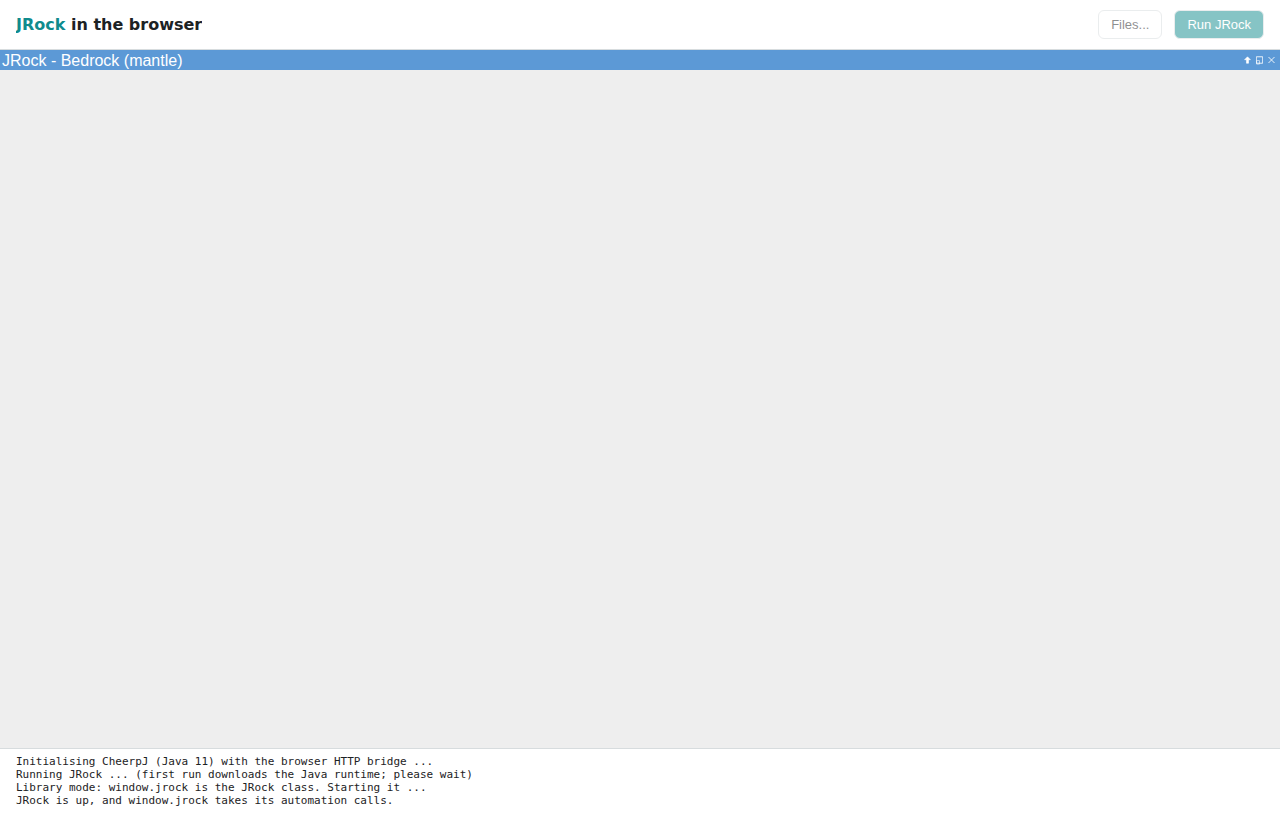
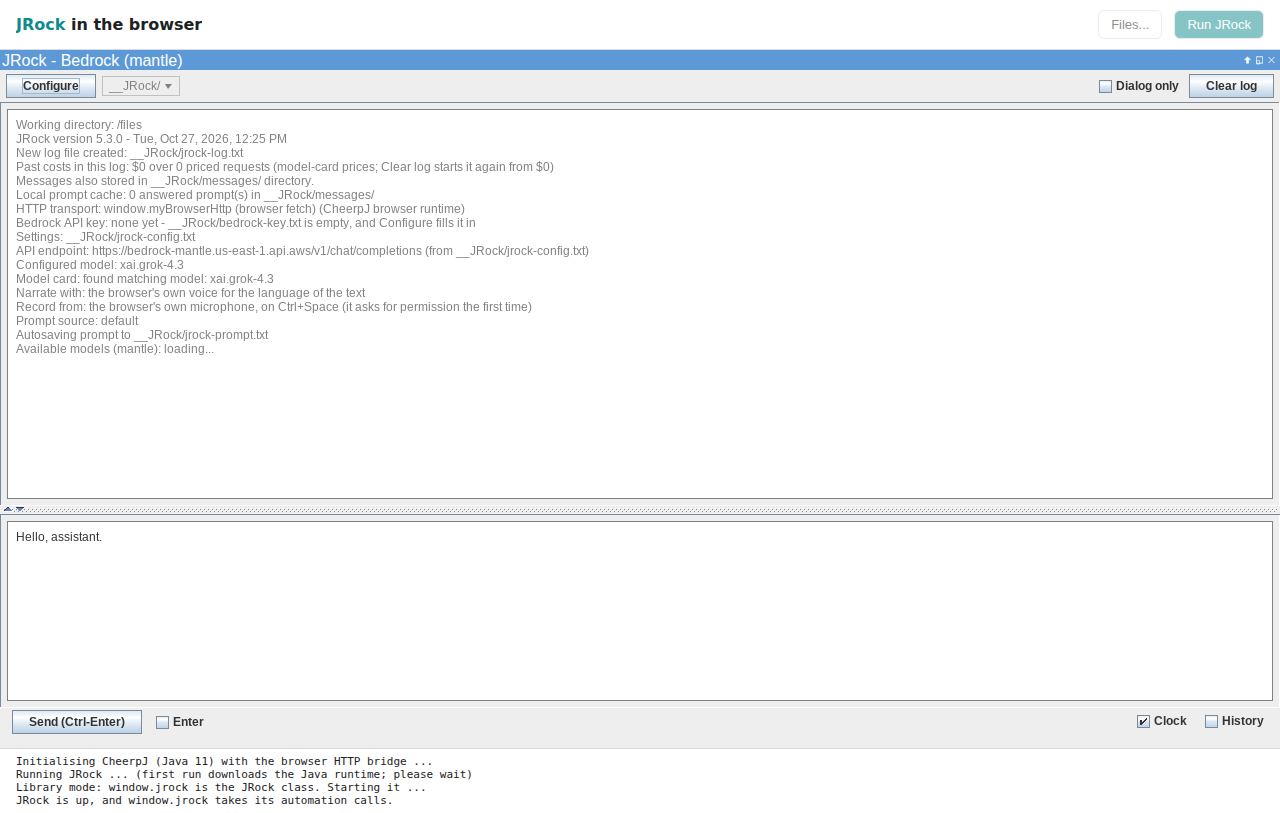
The transcript arrives a chunk at a time, so the prompt takes typing
Measured on a 48,000-line transcript, with the harness timing a task posted to
the event thread - which is exactly what a key press goes through, so the worst
delay it sees is the worst a typist feels:

  before   10,087 ms   the restore was one event, and nothing interrupted it
  after       107 ms

The window already came up first; what it could not do was anything else. The
restore read the file, read every message the transcript refers to, and styled
the lot into a text pane in a single loop - one event the window had no way to
interrupt. Ten seconds of a visible, frozen window is not much better than ten
seconds of no window.

So the parse goes to a worker, and the rendering is handed back to the queue
every sixty entries. Each call ENDS, which is the whole difference between busy
and frozen: every keystroke, caret and repaint waiting behind it is dealt with
before the next chunk starts. Sixty rather than 250 because 250 measured 336 ms
and the total restore is the same either way - three times the responsiveness
for nothing.

This pane is read-only and append-only, which is what makes it safe: nothing the
operator can do to it competes with the lines coming in.

The session report moved into a callback and a method of its own. Its lines
belong AFTER the transcript they are reporting on, and an append halfway through
a restore would land in the middle of last week's conversation.

Screenshots from this afternoon's run, four of them changed - and
[…]

diff --git a/JRock.java b/JRock.java
@@ -2832,19 +2832,80 @@ public class JRock {
         // rewrite the file (loading shouldn't trigger a save). Returns what was loaded,
         // as a timeline: the entries themselves are only replaced later, on the EDT, so
         // a caller that reads the log straight away has to read it from this.
-        java.util.List<String[]> loadFromDisk() {
+        /**
+         * Restores this folder's transcript, OFF THE EVENT THREAD and then A CHUNK AT A
+         * TIME, and calls back with its timeline when the last line is on screen.
+         *
+         * <p>Both halves of the old way blocked the window. Reading the file and parsing
+         * it blocks for as long as the disk takes - and it is not one file, every message
+         * the transcript refers to being read in as well. Rendering blocks for longer:
+         * styling tens of thousands of lines into a text pane is the slowest thing JRock
+         * does, and done in one loop it is one event the window cannot interrupt. A
+         * 48,000-line transcript froze it for sixteen seconds.
+         *
+         * <p>So the parse goes to a worker, and the rendering is handed back to the queue
+         * every few hundred entries. Between chunks the event thread does what it was
+         * always going to do - a keystroke, a caret, a repaint - so the PROMPT TAKES
+         * TYPING while the transcript is still arriving. Which is the whole point: this
+         * pane is read-only and append-only, so nothing the operator can do to it
+         * competes with the lines coming in.
+         *
+         * <p>The callback is how the session report stays in order. Its lines belong
+         * AFTER the transcript they are reporting on, and an append that happened halfway
+         * through the restore would land in the middle of last week's conversation.
+         */
+        void restoreFromDisk(java.util.function.Consumer<java.util.List<String[]>> whenDone) {
             Path from = logFile();
-            java.util.List<Entry> loaded = parseMainLog(from);
-            SwingUtilities.invokeLater(() -> {
-                // Together with the entries, on the EDT: a line queued before this
-                // runs is saved with the entries it joins, into the file they came from.
-                file = from;
-                entries.clear();
-                entries.addAll(loaded);
-                logCopySaved = true;   // just loaded from disk; no unsaved changes
-                rebuild();
-            });
-            return timeline(loaded);
+            new SwingWorker<java.util.List<Entry>, Void>() {
+                @Override protected java.util.List<Entry> doInBackground() {
+                    return parseMainLog(from);
+                }
+
+                @Override protected void done() {
+                    java.util.List<Entry> loaded;
+                    try {
+                        loaded = get();
+                    } catch (Exception unreadable) {
+                        // A transcript that cannot be read is a session that starts
+                        // without one, which is what a new folder does anyway.
+                        loaded = new ArrayList<>();
+                    }
+                    // Together with the entries, on the EDT: a line queued before this
+                    // runs is saved with the entries it joins, into the file they
+                    // came from.
+                    file = from;
+                    entries.clear();
+                    entries.addAll(loaded);
+                    logCopySaved = true;   // just loaded from disk; no unsaved changes
+                    java.util.List<String[]> timeline = timeline(loaded);
+                    renderChunk(0, () -> whenDone.accept(timeline));
+                }
+            }.execute();
+        }
+
+        /** How many entries are rendered before the event thread gets its queue back. */
+        private static final int RESTORE_CHUNK = 60;
+
+        /**
+         * Renders entries from {@code at} onwards, a chunk per turn of the event queue.
+         *
+         * <p>Re-queued rather than looped, which is the difference between a window that
+         * is busy and a window that is frozen: each call ENDS, so every keystroke and
+         * repaint waiting behind it is dealt with before the next chunk starts.
+         */
+        private void renderChunk(int at, Runnable whenDone) {
+            if (at == 0) pane.setText("");
+            int end = Math.min(entries.size(), at + RESTORE_CHUNK);
+            for (int i = at; i < end; i++) {
+                Entry e = entries.get(i);
+                if (!isVisible(e)) continue;
+                if (e.dialog) renderDialog(e); else renderGray(e.text);
+            }
+            if (end >= entries.size()) {
+                whenDone.run();
+                return;
+            }
+            SwingUtilities.invokeLater(() -> renderChunk(end, whenDone));
         }
 
         // Parses the main log. The file is the pane text as persistMainLog writes it: a
@@ -3083,14 +3144,31 @@ public class JRock {
         // automationAwaitReady).
         adoptSession();
 
-        // Recover any previous log from disk FIRST. loadFromDisk() replaces the
-        // entry list (rebuild -> setText), so it must run before we log anything
-        // for this session, otherwise those lines would be wiped.
+        // Recover any previous log from disk FIRST - it replaces the entry list, so it
+        // has to be in place before anything is logged for this session or those lines
+        // would be wiped. Restored off the event thread and rendered a chunk at a time
+        // (see restoreFromDisk), so the prompt takes typing while it arrives; the report
+        // follows in the callback, its lines belonging after the transcript they report
+        // on rather than in the middle of it.
         boolean hadLog = Files.exists(logFile());
-        java.util.List<String[]> restored = log.loadFromDisk();
         // What the log already holds in costs, read before this session adds a line.
         double[] pastCosts = loggedCosts(hadLog ? readFileQuietly(logFile()) : null);
+        log.restoreFromDisk(restored ->
+                sessionReport(log, input, promptSourceNote, hadLog, pastCosts, restored));
+    }
 
+    /**
+     * The session report: everything JRock says about the folder it has just opened, from
+     * the working directory down to "Ready."
+     *
+     * <p>Its own method because it is the CONTINUATION of the transcript's restore and
+     * not the start of a session. Split out when the restore stopped blocking the window:
+     * what used to be one method that could not be interrupted is now a short one that
+     * starts the reading and this one, which runs when the reading is done.
+     */
+    private static void sessionReport(LogView log, JTextArea input, String promptSourceNote,
+                                      boolean hadLog, double[] pastCosts,
+                                      java.util.List<String[]> restored) {
         // The settings with a control of their own on the main window, which show the
         // folder's value as soon as there is a window (at startup, it is made with them).
         Ui shown = ui;

diff --git a/.github/build/StartupProfile.java b/.github/build/StartupProfile.java
@@ -114,7 +114,26 @@ public final class StartupProfile {
         drained.await();
         long afterDrain = System.nanoTime();
 
-        // 3. and ready, reported after it and separately, being a different question.
+        // 3. HOW LONG A KEYSTROKE WOULD HAVE WAITED, which is the number that decides
+        //    whether a window is usable while it is still starting. The transcript is
+        //    being restored on the event thread right now; a task posted to that thread
+        //    and timed is exactly what a key press goes through, so the worst delay seen
+        //    here is the worst a typist would have felt. Blocked, it is the length of the
+        //    whole restore; handed back between chunks, it is a chunk.
+        long worstWait = 0;
+        long watchUntil = System.currentTimeMillis() + READY_MS;
+        // A zero timeout asks without waiting: null means ready.
+        while (System.currentTimeMillis() < watchUntil
+                && JRock.automationAwaitReady(0) != null) {
+            long posted = System.nanoTime();
+            CountDownLatch ran = new CountDownLatch(1);
+            SwingUtilities.invokeLater(ran::countDown);
+            ran.await();
+            worstWait = Math.max(worstWait, (System.nanoTime() - posted) / 1_000_000);
+            Thread.sleep(15);
+        }
+
+        // 4. and ready, reported after it and separately, being a different question.
         String notReady = JRock.automationAwaitReady(READY_MS);
         long afterReady = System.nanoTime();
 
@@ -126,6 +145,7 @@ public final class StartupProfile {
         say("TOTAL, JVM start to a window on screen", ms(jvm, afterDrain));
         say("", "");
         say("afterwards: to automation ready", ms(afterDrain, afterReady));
+        say("WORST a keystroke would have waited", worstWait + " ms");
         if (notReady != null) {
             say("  not ready, which is expected here", notReady);
         }
